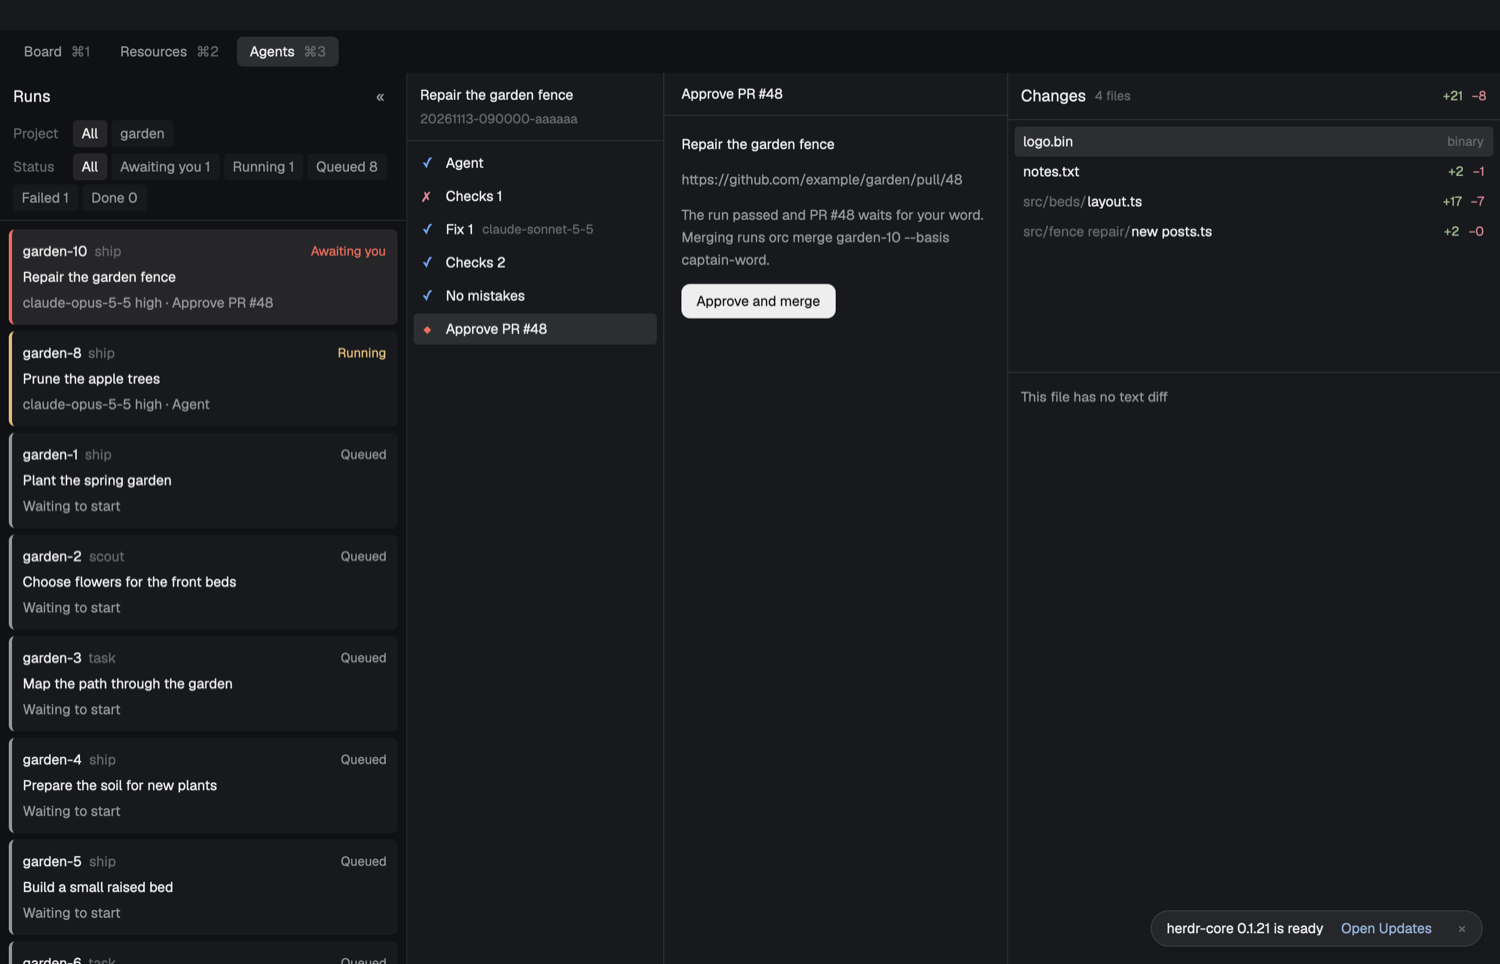
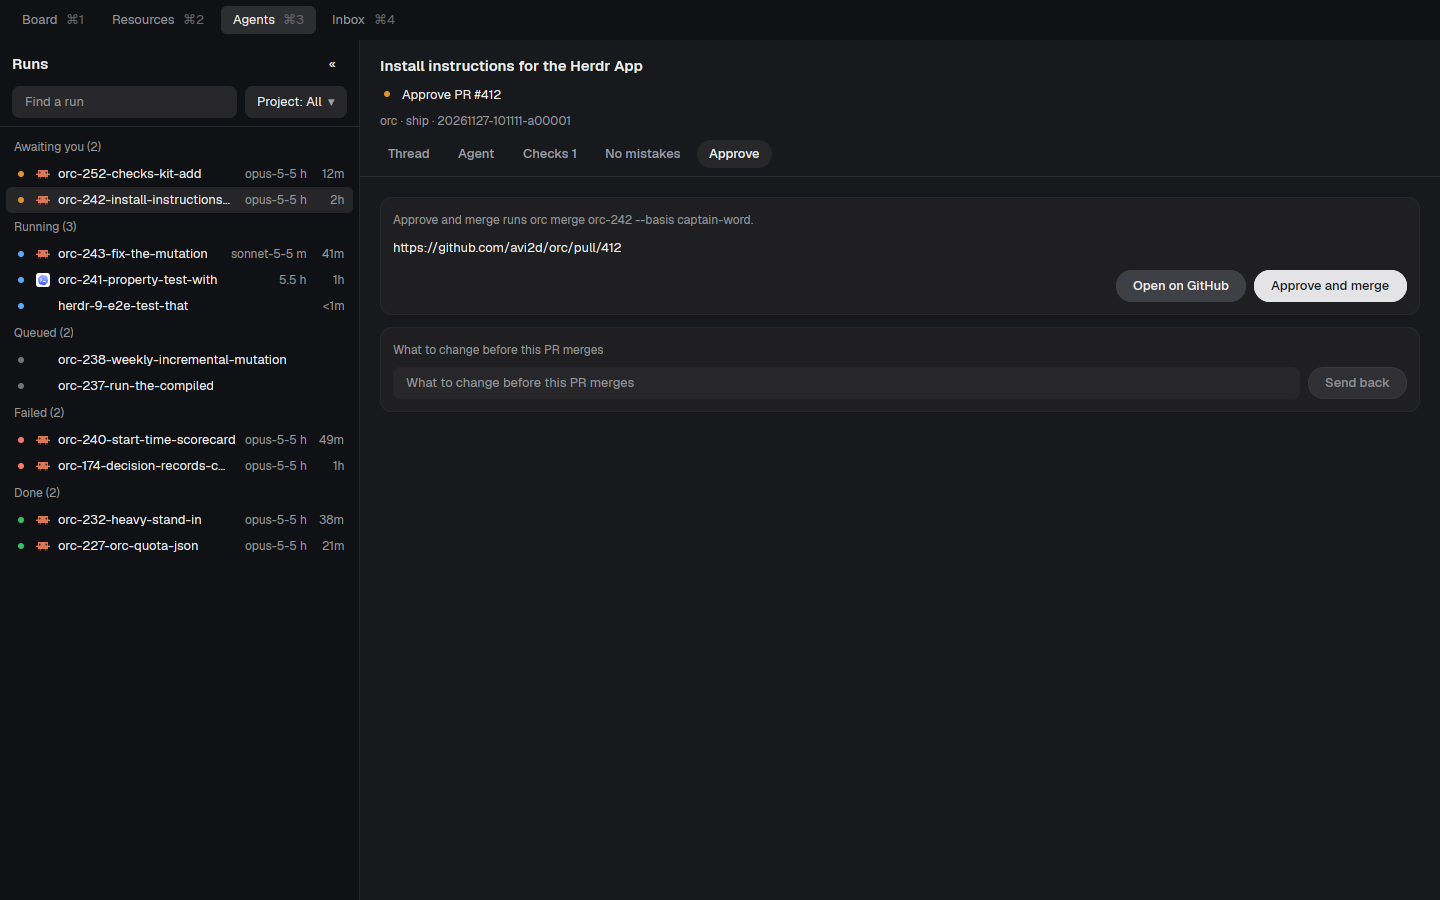
docs(herdr-app): describe the round-6 Agents page with fresh screenshots
The Agents docs now describe the status headers, the row, Find a run,
the one tab row with Thread first, the tab a run opens on, answering a
run question from the Thread, and the reread failure card with Retry.
Screenshots come from a scratch App on fixture runs. The Turns screenshot
goes, since the Agents page no longer has a Turns view.

The Approve tab names its command as a sentence: Approve and merge runs
orc merge, then its arguments.

diff --git a/packages/herdr-app/src/agents-view.ts b/packages/herdr-app/src/agents-view.ts
@@ -76,7 +76,7 @@ const approveBody = (t: Palette, card: Card, approval: InboxApproval, merge: Mer
   const merging = merge?.kind === "merging"
   const shown = approvalShown(merge, card.merge)
   return kitCard().p(12).gap(8)
-    .child(div().text_size(12).text_color(t.muted).child(`Merging runs orc ${approval.action.argv.join(" ")}`))
+    .child(div().text_size(12).text_color(t.muted).child(`Approve and merge runs orc ${approval.action.argv.join(" ")}.`))
     .child(linkedText(`approve-${card.key}`, approval.link))
     .child(h_flex().pt(4).gap(8).justify_end()
       .child(openOnGitHub(t, approval.link))

diff --git a/docs/herdr-app-agents.md b/docs/herdr-app-agents.md
@@ -8,43 +8,78 @@ Press `cmd-k` to open or close the chat drawer.
 
 ## Follow a run in the Agents tab
 
-The list shows runs and queued tasks, grouped by status.
+The list shows runs and queued tasks under five headers: **Awaiting you**, **Running**, **Queued**, **Failed** and **Done**.
+Each header shows its count after its name.
+Select a header to fold or unfold its rows.
+Each row shows a status dot, the agent's logo, the task ID with the first words of its title, the model and effort, such as `opus-5-5 h`, and a time.
+The time is how long a question has waited on you, how long a running run has run, or how long a finished run took.
+Type in **Find a run** to show only the runs whose task ID or title holds those words.
 A queued task whose hold waits on other tasks reads **Waits on** and their IDs.
 Those tasks are its open children and dependencies, its children done as ship tasks whose PR is not merged, the same kind of dependency when the held task is a ship task, and a dependency the backlog does not hold.
 The **Project** select shows runs for configured projects by default.
 Choose **All runs** in it to include runs from other projects.
 Opening a run of another project from the Inbox switches the **Project** select to **All runs**.
-Open the **Project** or **Status** select to filter the list.
-Each select shows its current choice and count, and its open list shows a count for every choice.
+The **Project** select shows its current choice, and its open list shows a count for every choice.
 A merged PR shows its run as Done.
 A closed PR shows its run as Failed.
 Select « to collapse the list and » to open it.
 
-Select a run to see its steps.
-A ship run shows Agent, Checks, Fix when needed, and No mistakes or PR for its delivery mode.
-A report run shows only Agent.
-A resumed run lists carried steps under their original run.
-Select a step to read its output.
+The list rereads the runs while you watch.
+If a reread fails, a card above the list says why and when the list below was read.
+Select **Retry** on it to read the runs again.
+A Thread that cannot be read shows the same kind of card with **Retry**.
 
-[Pi](https://pi.dev) steps open in Turns, with a card for each reply.
-Select Raw to follow the log, or Turns to return to the cards.
-Checks steps open in Summary, as [Read a Checks step](herdr-app.md#read-a-checks-step) describes.
-Other steps without a Pi session show their log.
+![Agents tab with a card that could not reread the runs above the list, and a card that could not read the selected run's thread](images/herdr-agents-reread-failed.png)
 
-![Agents tab with a running run's Agent step in the Turns view and its Changes column](images/herdr-agents-turns.png)
+Select a run to open it on the right.
+Its header shows the task's title, a status dot with what the run waits on or why it stopped, and the project, route and run ID.
+Below the header, one row of tabs holds **Thread** first, then one tab per step, then **Approve** or **Send back** while a PR is open.
+Steps that share a name are numbered by their place in the run, such as **Checks 1** and **Checks 2**.
+Steps still to come are dim.
+Point at a step's tab to see its model.
+
+A run opens on the tab that needs you:
+
+| Run | Opens on |
+| --- | --- |
+| Awaiting you, with a question | Thread |
+| Awaiting you, with a PR to approve | Approve |
+| Queued | Thread |
+| Running | the step that runs now |
+| Failed | the step that failed |
+| Done, with an open PR | Send back |
+| Done otherwise | the last step |
+
+[Pi](https://pi.dev) steps show a card for each reply.
+Checks steps show one row per check, as [Read a Checks step](herdr-app.md#read-a-checks-step) describes.
+Other steps show their log.
+
+![Agents tab on the Thread of a run whose worker asks a question, with two options and an answer box](images/herdr-agents-thread.png)
+
+### Answer a run's question
+
+The **Thread** tab shows the task's thread, then the open question of the run.
+Each option shows its outcome and its number, and the recommended option says **Recommended**.
+
+1. Select an option, or type its number into the empty answer box.
+   Its text fills the box, and the option is marked.
+1. Change the words if you need to, or type your own answer.
+1. Press Enter or select **Send**.
+
+When the step that asked is running, its tab names the question with **Open in Thread**.
 
 ### Approve a run's PR
 
 When Orc asks you to merge a PR, select **merge** on its **Awaiting you** card and confirm the dialog.
 Select **hold** to leave the PR open and clear that request.
-You can also merge from the Approve step.
+You can also merge from the **Approve** tab.
 Select the PR address to open it in your browser.
 
-![Agents tab on the Approve step of a run whose PR waits](images/herdr-agents-approve.png)
+![Agents tab on the Approve tab of a run whose PR waits](images/herdr-agents-approve.png)
 
 To merge the PR:
 
-1. Select the Approve step.
+1. Select the **Approve** tab.
 1. Select Approve and merge.
 1. Confirm the dialog.
 

diff --git a/docs/herdr-app.md b/docs/herdr-app.md
@@ -52,7 +52,7 @@ An option with a picture shows as a tile, and others as buttons.
 The Inbox outlines the recommended option.
 If Orc did not record options, the card shows the original text and says **No options recorded**.
 An overdue card shows how long it has waited.
-The Agents tab shows the same cards under each run in **Awaiting you**.
+The Agents tab shows the same question in the **Thread** tab of its run.
 
 To answer a question, a decision, a hold or an event:
 
@@ -98,12 +98,11 @@ On the Board tab, click the count in the **Awaiting you** lane header to open th
 <div id="follow-a-run-in-the-agents-tab"><span id="approve-a-run-s-pr"></span><span id="read-a-run-s-changes"></span><span id="chat-with-orc"></span></div>
 
 [Runs and chat](herdr-app-agents.md) covers the Agents tab and chat drawer.
-On the Agents tab, open the **Status** select and click the count beside **Awaiting you** to open the Inbox, as `cmd-4` does.
 The **Project** select shows runs for configured projects by default.
 Choose **All runs** in it to include runs from other projects.
 Opening a run of another project from the Inbox switches the **Project** select to **All runs**.
 A merged PR shows its run as Done, and a closed PR shows its run as Failed.
-The Approve step names each stage of a merge, as [Approve a run's PR](herdr-app-agents.md#approve-a-runs-pr) says.
+The **Approve** tab names each stage of a merge, as [Approve a run's PR](herdr-app-agents.md#approve-a-runs-pr) says.
 
 <div id="start-a-scratch-app"><span id="recapture-the-board-screenshots"></span><span id="change-the-mods"></span></div>
 
@@ -111,22 +110,18 @@ The Approve step names each stage of a merge, as [Approve a run's PR](herdr-app-
 
 ## Read a Checks step
 
-On the **Agents** tab, select a run and then select a **Checks** step.
-By default, **Summary** shows one row per check with its name, result, and time.
-If a log has no recorded check boundaries, **Summary** shows a note instead of check rows.
+On the **Agents** tab, select a run and then select a **Checks** tab.
+It shows one row per check with a status icon, its name and its time.
+If a log has no recorded check boundaries, the tab shows the whole log instead.
 
 Passed checks stay folded.
 A failed check opens below its row.
 Select the row to fold or reopen it.
-For a failed `bun test` check, **Summary** shows the failed test names, their errors, and the pass and fail counts.
+For a failed `bun test` check, the tab shows the failed test names, their errors, and the pass and fail counts.
 For other failed checks, it shows the last 20 lines before the exit.
 If the step ended before a check reported its result, the row says **Interrupted**.
 
-![Agents tab with a Checks step in Summary, showing passed typecheck and unit checks and a failed e2e check](images/herdr-agents-checks.png)
-
-Select **Raw** in the step bar to see the full log.
-The tab keeps **Raw** selected when you move between steps or runs.
-Select **Summary** on a Checks step or **Turns** on an Agent step to switch back.
+![Agents tab on a failed run's Checks tab, showing passed typecheck and unit checks and a failed e2e check](images/herdr-agents-checks.png)
 
 ## Related topics
 

diff --git a/docs/concepts/app.md b/docs/concepts/app.md
@@ -24,13 +24,13 @@ Selecting a card opens the task panel, with the task's whole conversation and it
 ## The Agents tab
 
 The Agents tab lists the runs and the queued tasks.
-For the selected run it shows each step, the agent's turns, and the changes on the branch.
+For the selected run it shows the task's thread, one tab per step with the agent's turns or the checks, and the changes on the branch.
 
-![Agents tab with a running run's Agent step in the Turns view and its Changes column](../images/herdr-agents-turns.png)
+![Agents tab on the Thread of a run whose worker asks a question, with two options and an answer box](../images/herdr-agents-thread.png)
 
-A run whose pull request waits for your word ends in an Approve step, which merges through `orc merge`.
+A run whose pull request waits for your word ends in an Approve tab, which merges through `orc merge`.
 
-![Agents tab on the Approve step of a run whose PR waits](../images/herdr-agents-approve.png)
+![Agents tab on the Approve tab of a run whose PR waits](../images/herdr-agents-approve.png)
 
 ## The Resources tab
 

diff --git a/docs/run/merging-a-tasks-pr.md b/docs/run/merging-a-tasks-pr.md
@@ -42,7 +42,7 @@ At each step of an `orc merge`, Orc writes a `merge` record into the closed task
 The record holds the basis, the head it checked, the checks that were green on that head, and the current stage.
 The stage is `updating`, `checks-running`, `conflicted`, `check-failed` or `merged`.
 A `conflicted` stage names the base branch as its detail, and a `check-failed` stage names the red checks.
-`orc backlog --json` carries the record as `merge`, and the App's Approve step reads it, as [Approve a run's PR](../herdr-app-agents.md#approve-a-runs-pr) says.
+`orc backlog --json` carries the record as `merge`, and the App's Approve tab reads it, as [Approve a run's PR](../herdr-app-agents.md#approve-a-runs-pr) says.
 Each `orc merge` drops the record of an earlier attempt once the PR is open.
 When Orc cannot write the record, it prints the reason and goes on with the merge.
 A merge's own send-back keeps the record on the sent-back task, and `orc backlog send-back` drops it.
